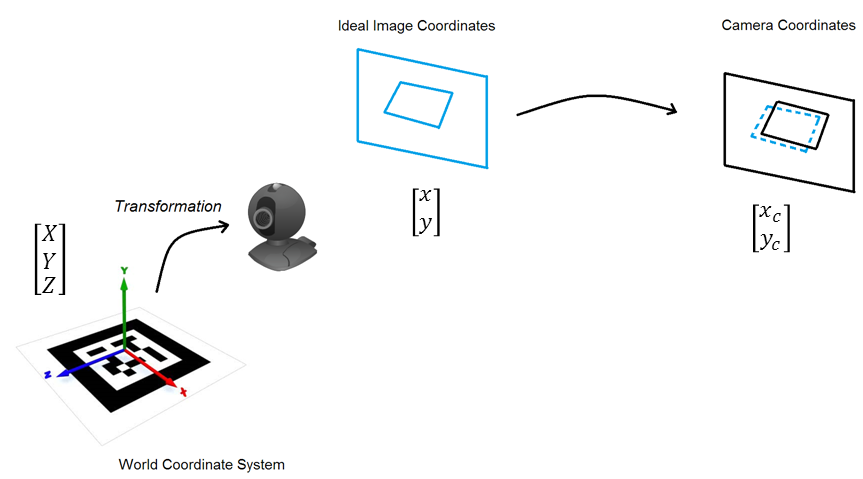
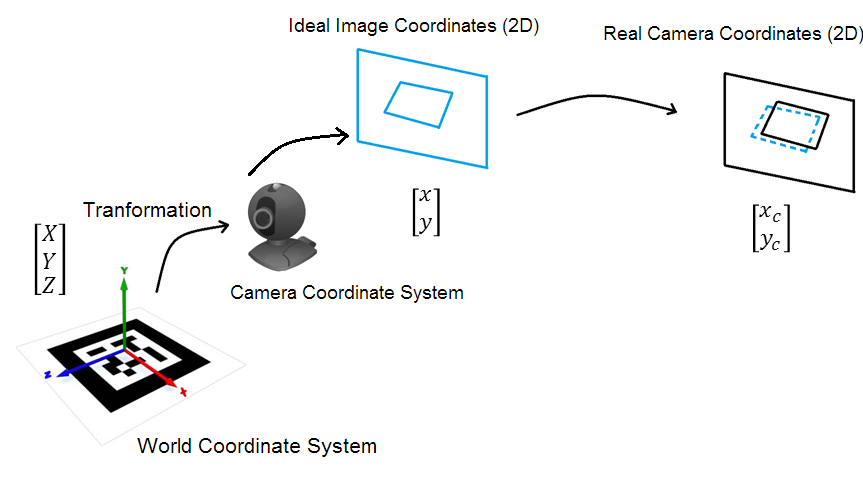
UPDATED PINHOLE

diff --git a/Chapters/Chapter2.tex b/Chapters/Chapter2.tex
@@ -472,8 +472,6 @@ In this chapter, we review prior work in the field of augmented reality from whi
 
 
 \subsection{Το Μοντέλο Κάμερας Pinhole}
-%TO ΜΟΝΤΕΛΟ ΚΑΜΕΡΑΣ ΑΠΟ ΑΛΛΗ ΕΡΓΑΣΙΑ-
-%mcdonald,malik,clarke
 
 
 %gt pinhole?
@@ -491,24 +489,137 @@ In this chapter, we review prior work in the field of augmented reality from whi
 
 %malik
 
-Το σχήμα~\ref{fig:pinhole2} δείχνει το μοντέλο κάμερας pinhole. Ο οπτικός άξονας ορίζεται ως η γραμμή που διαπερνά το κέντρο της εστίασης, που είναι κάθετο στο επίπεδο της εικόνας. Η εικόνας μιας pinhole κάμερας σχηματίζεται στο επίπεδο $z=f$, όπου f είναι το εστιακό μήκος κάμερας(focal length).
-To principal point είναι η τομή ανάμεσα στον οπτικό άξονα(principal axis) και το επίπεδο της εικόνας. 
+Το σχήμα~\ref{fig:pinhole2} δείχνει το μοντέλο κάμερας pinhole. Ο οπτικός άξονας(principal axis) ορίζεται ως η γραμμή που διαπερνά το principal point και είναι κάθετη στο επίπεδο της εικόνας. 
+Η εικόνα μιας pinhole κάμερας σχηματίζεται στο επίπεδο $Z=f$, όπου f είναι το εστιακό μήκος κάμερας(focal length).
+To principal point είναι η τομή ανάμεσα στο principal axis και το επίπεδο της εικόνας. Το optical center είναι το σημείο pinhole, το οποίο παίζει κεντρικό ρόλο στην όλη διαδικασία.
 
-Συμπεραίνοντας ότι έχουμε οποιοδήποτε άλλο σημείο P = [X, Y, Z] στο 3Δ χώρο, και αν θεωρήσουμε το επίπεδο της εικόνας για να ορίσουμε τη δισδιάστατη εικόνα, τότε η δισδιάστατη προβολή του P είναι η τομή ανάμεσα στο επίπεδο της εικόνας και της γραμμής που σχηματίζεται ανάμεσα στο κέντρο της εστίασης και το P, που ορίζεται ως p = [x, y]. 
+Συμπεραίνοντας ότι έχουμε οποιοδήποτε άλλο σημείο P = [X, Y, Z] στο 3Δ χώρο, και αν θεωρήσουμε το επίπεδο της εικόνας για να ορίσουμε τη δισδιάστατη εικόνα, τότε η δισδιάστατη προβολή του P σχηματίζεται στο σημείο τομής ανάμεσα στο επίπεδο της εικόνας και της γραμμής που σχηματίζεται ανάμεσα στο κέντρο της εστίασης και το P, που ορίζεται ως p = [x, y]. 
 
 
-%-----
+
 %ksekinoun mathematics
-Το μοντέλο της κάμερας έχει στόχο να μετασχηματίσει ένα 3D σημείο 
-$X = \begin{bmatrix} X\\ Y\\ Z\\ 1\end{bmatrix}$ του πραγματικού κόσμου σε ένα 2Δ σημείο $X = \begin{bmatrix} X\\ Y\\ 1\end{bmatrix}$
+Το μοντέλο της κάμερας έχει στόχο να μετασχηματίσει ένα οποιδήποτε 3D σημείο $X = \begin{bmatrix} X & Y & Z \end{bmatrix}$ σε ένα 2D σημείο $X = \begin{bmatrix} x & y\end{bmatrix}$. 
 
-Για το μετασχηματισμό αυτό, αρκεί μία απλή προοπτική προβολή. Με άλλα λόγια:
+
+
+
+Για να συμβεί αυτό, αρκεί μία απλή προοπτική προβολή. Χρησιμοποιώντας τη μέθοδο όμοιων τριγώνων στο σχήμα~\ref{pinhole2} παίρνουμε τις παρακάτω σχέσεις:
 
 
 \begin{equation}
+\begin{aligned}
 X=f\frac{X}{Z}\\
 Y=f\frac{Y}{Z}
+\end{aligned}
 \end{equation}
+
+
+Η μεταβλητή $f$ συμβολίζει το εστιακό μήκος, ενώ ε μορφή ομογενών συντεταγμένων, η παραπάνω σχέση γράφεται ως:
+
+\begin{equation}
+\begin{bmatrix}
+x\\y\\1
+\end{bmatrix}
+=
+\begin{bmatrix}
+f & 0 & 0 & 0\\
+0 & f & 0 & 0\\
+0 & 0 & 1 & 0
+\end{bmatrix}
+\begin{bmatrix}
+X\\
+Y\\
+Z\\
+1
+\end{bmatrix}
+\end{equation}
+
+
+
+Ο παραπάνω πίνακας ονομάζεται και camera projection matrix.
+
+
+%ideal != sensor image 2d
+Στην παραπάνω εξίσωση, έχει θεωρηθεί ότι η αρχή των αξόνων του επιπέδου της εικόνας είναι πάνω στο principal point. Ωστόσο κάτι τέτοιο μπορεί να μη συμβαίνει πάντα, οπότε μπορεί να έχουμε την παρακάτω αντιστοίχηση: 
+
+\begin{equation}
+x=f\frac{X}{Z}+c_{x} \! \!  y=f\frac{Y}{Z}+c_{y}
+\end{equation}
+
+όπου $(c_{x},c_{y})^{T}$ είναι οι συντεταγμένες του principal point. Οπότε και πάλι σε ομογενείς συντεταγμένες έχουμε:
+
+\begin{equation}
+\begin{bmatrix}
+x\\y\\1
+\end{bmatrix}
+=
+\begin{bmatrix}
+f & 0 & c_{x} & 0\\
+0 & f & c_{y} & 0\\
+0 & 0 & 1 & 0
+\end{bmatrix}
+\begin{bmatrix}
+X\\
+Y\\
+Z\\
+1
+\end{bmatrix}
+\end{equation}
+
+Ένας τρόπος που χρησιμοποιείται, συνήθως, είναι η αναπαράσταση του μοντέλου της κάμερας ως ένας πίνακας βαθμονόμησης κάμερας (intrinsic camera calibration matrix) K, ή απλά πίνακας κάμερας (camera matrix).  Έχουμε, λοιπόν, τον πίνακα intrinsic camera calibration matrix, Κ, ο οποίος γράφεται ως:
+
+
+\begin{equation}
+K=
+\begin{bmatrix}
+f & 0 & c_{x}\\
+0 & f & c_{y}\\
+0 & 0 & 1
+\end{bmatrix}
+\end{equation}
+
+
+
+Το μοντέλο αυτό, υποθέτει ότι οι συντεταγμένες εικόνας είναι ευκλείδειες συντεταγμένες που έχουν ίδιες κλίμακες και στις 2 κατευθύνσεις των αξόνων, δηλαδή ότι έχουμε τετράγωνα pixels. Αν ωστόσο δε συμβαίνει κάτι τέτοιο, τότε ο μετασχηματισμός από κοσμικές συντεταγμένες σε συντεταγμένες pixel βρίσκεται πολλαπλασιάζοντας την προηγούμενη εξίσωση με το διάνυσμα $\begin{bmatrix}m_{x} & m_{y} & 1\end{bmatrix}$. Οπότε έχουμε τον πίνακα K ο οποίος παίρνει τη μορφή:
+
+\begin{equation}
+K=
+\begin{bmatrix}
+a_{x} & 0 & c_{x}\\
+0 & a_{y} & c_{y}\\
+0 & 0 & 1
+\end{bmatrix}
+\end{equation}
+
+όπου $a_{x}=fm_{x}$ και $a_{y}=fm_{y}$ είναι το εστιακό μήκος κάμερας σε όρους διαστάσεων pixels στις κατευθύνσεις x και y αντίστοιχα. Ωστόσο συνήθως στις περισσότερες κάμερες $m_{x}=m_{y}$.
+
+Μερικές φορές ο πίνακας αυτός παίρνει τη μορφή:
+
+\begin{equation}
+K=
+\begin{bmatrix}
+a_{x} & s & c_{x}\\
+0 & a_{y} & c_{y}\\
+0 & 0 & 1
+\end{bmatrix}
+\end{equation}
+
+για μεγαλύτερη γενικότητα, όπου $s$ είναι μία παράμετρος λοξότητας των στοιχείων pixels, η οποία θεωρεί ότι τα x και y δεν είναι κάθετα. Ωστόσο, με το σημερινό επίπεδο κατασκευής των αισθητήρων, μπορούμε να θεωρήσουμε με ασφάλεια, ότι η παράμετρος αυτή είναι 0, δηλαδή ότι τα pixels του αισθητήρα είναι ορθογώνια.
+
+
+
+
+
+
+
+
+Όπως όμως αναφέρθηκε και προηγουμένως, τα φυσικά χαρακτηριστικά μιας κάμερας ορίζουν πώς θα διαμορφωθεί μία εικόνα στον αισθητήρα εικόνας μιας κάμερας. 
+
+
+
+
+
+
 
 
 
@@ -523,14 +634,14 @@ Y=f\frac{Y}{Z}
 \begin{figure}[H]
     \centering
     \includegraphics[scale=0.5, angle=0]{Files/Figures/pinhole1.png}
-    \caption[Το μοντέλο κεντρικής προβολής (pinhole camera model)]{ Το μοντέλο κεντρικής προβολής (pinhole camera model) \cite{pinhole} .}
+    \caption[Το μοντέλο κεντρικής προβολής στις 3 διαστάσεις (pinhole camera model)]{ Το μοντέλο κεντρικής προβολής (pinhole camera model) \cite{pinhole} .}
     \label{fig:pinhole1}
 \end{figure}
 
 \begin{figure}[H]
     \centering
     \includegraphics[scale=0.5, angle=0]{Files/Figures/pinhole2.png}
-    \caption[Πλάγια όψη του μοντέλου κεντρικής προβολής (pinhole camera model)]{ Πλάγια όψη του μοντέλου κεντρικής προβολής (pinhole camera model) \cite{pinhole} .}
+    \caption[Πλάγια όψη του μοντέλου κεντρικής προβολής 2D (pinhole camera model)]{ Πλάγια όψη του μοντέλου κεντρικής προβολής (pinhole camera model) \cite{pinhole} .}
     \label{fig:pinhole2}
 \end{figure}
 
@@ -546,51 +657,14 @@ Y=f\frac{Y}{Z}
 
 
 
-%siltanen ta leei poli apla kai katanoita-exei lathi
 
 
 
-%allo pinhole allo pragmatikes kameres!!!!!!
--camera calibration matrix and optical distortions
-Τα φυσικά χαρακτηριστικά μιας κάμερας ορίζουν πώς θα διαμορφωθεί μία εικόνα στον αισθητήρα εικόνας μιας κάμερας. 
-
-Ενώ στο μοντέλο pinhole, μόνο το εστιακό μήκος της κάμερας επηρεάζει τη διάταξη της εικόνας, στις πραγματικές κάμερες, ο αισθητήρας μπορεί να είναι ασύμμετρος, η αναλογία διαστάσεων pixel μπορεί να είναι ανόμοια και το κέντρο του αισθητήρα εικόνας $(c_{x},c_{y}$ μπορεί να διαφέρει σε απόσταση από τον οπτικό άξονα του συστήματος φακού.
-
-Ένας τρόπος που χρησιμοποιείται, συνήθως, είναι η αναπαράσταση του μοντέλου της κάμερας ως ένας πίνακας βαθμονόμησης κάμερας (intrinsic camera calibration matrix) K, ή απλά πίνακας κάμερας (camera matrix). Πρόκειται για μία αντιστοίχηση ανάμεσα στις συντεταγμένες της ιδανικής 2D εικόνας και τις συντεταγμένες της εικόνας που απεικονίζεται στον αισθητήρα της κάμερας (observed pixel coordinates), $x_{pix}=Κx_{c}$. Επομένως, ο πίνακας βαθμονόμησης (calibration matrix) εξαρτάται μόνο από τις ιδιότητες της κάμερας.
-
-
-\begin{equation}
-\begin{bmatrix}
-x_{pix} \\ y_{pix} \\ 1
-\end{bmatrix}
-=
-\begin{bmatrix}
-f_{x} & s & c_{x} & 0\\
-0 & f_{y} & c_{y} & 0\\
-0 & 0 & 1 & 0
-\end{bmatrix}
-\begin{bmatrix}
-x_{c}\\
-y_{c}\\
-z_{c}
-\end{bmatrix}
-\end{equation} .
+%------------DISTORTIONS---------------------------------------
 
 Επιπλέον, μία πραγματική κάμερα μπορεί να παράγει συστηματικά γεωμετρικά σφάλματα, που ονομάζονται παραμορφώσεις, λόγω ατελειών του φακού. 
 Η παραμόρφωση αυτή συμβαίνει στο φακό της κάμερας. 
 Επομένως, θεωρητικά, η παραμόρφωση πρέπει να ληφθεί υπόψη πριν γίνει ο μετασχηματισμός των ιδανικών συντεταγμένων σε συντεταγμένες κάμερας. 
-Ωστόσο στις περισσότερες σύγχρονες κάμερες, τα pixels είναι τετράγωνα και οι στήλες και σειρές είναι ευθείες. Αυτό σημαίνει ότι στον πίνακα της κάμερας $s=0$, και $f_{x}=f_{y}$.
-
-\begin{equation}
-K=
-\begin{bmatrix}
-f & 0 & c_{x} & 0\\
-0 & f & c_{y} & 0\\
-0 & 0 & 1 & 0
-\end{bmatrix}
-\end{equation} .
-
-
 %paramorfosi
 Σε αυτή την περίπτωση, η παραμόρφωση μπορεί να μοντελοποιηθεί μετά μετά τον εσωτερικό μετασχηματισμό της κάμερας (camera’s intrinsic transformation). Ο πίνακας κάμερας μετατρέπει τις ιδανικές συντεταγμένες εικόνας σε συντεταγμένες κάμερας και έπειτα, η συνάρτηση παραμόρφωσης μετατρέπει τις συντεταγμένες κάμερας σε συντεταγμένες pixel.
 
@@ -1214,8 +1288,7 @@ y=-(y'-o_{y})s_{y}
 -Extrinsics-
 
 %siltanen
-Οι εξωτερικές παράμετροι ορίζουν τη θέση και το προσανατολισμό της κάμερας ( ή ακριβέστερα του συστήματος συντεταγμένων της κάμερας σε σχέση με τις κοσμικές συντεταγμένες της σκηνής). Αυτός ο μετασχηματισμός M αποτελείται από μία συνιστώσα περιστροφής R και μία συνιστώσα μετατόπισης t, οι οποίες περιγράφονται σε κοσμικές συντεταγμένες (world coordinates) παρακάτω:
-
+Οι εξωτερικές παράμετροι(extrinsics) ορίζουν τη θέση και το προσανατολισμό της κάμερας ( ή ακριβέστερα του συστήματος συντεταγμένων της κάμερας σε σχέση με τις κοσμικές συντεταγμένες της σκηνής). 
 
 
 Ο μετασχηματισμός M ανάμεσα σε μία κάμερα και έναν marker είναι
@@ -1225,9 +1298,9 @@ y=-(y'-o_{y})s_{y}
 \end{equation}
 
 
-όπου $\textbf{Χ}$ είναι ένα σημείο σε συντεταγμένες κόσμου, $\textbf{x}$ είναι η προβολή του σημείου σε συντεταγμένες ιδανικής εικόνας και M είναι ο μετασχηματισμός ανάμεσα σε κάμερα και marker, ή αλλιώς extrinsic camera matrix ή πίνακας πόζας. R είναι ένας πίνακας περιστροφής  και t ένα.
+όπου $\textbf{Χ}$ είναι ένα σημείο σε συντεταγμένες κόσμου, $\textbf{x}$ είναι η προβολή του σημείου σε συντεταγμένες ιδανικής εικόνας και M είναι ο μετασχηματισμός ανάμεσα σε κάμερα και marker, ο οποίος αποτελείται από μία συνιστώσα περιστροφής R που περιγράφει την περιστροφή της κάμερας και μία συνιστώσα μετατόπισης t, που περιγράφει τη θέση της κάμερας οι οποίες περιγράφονται σε κοσμικές συντεταγμένες (world coordinates) παρακάτω:
 
-Ο μετασχηματισμός M αποτελείται από ένα  3Δ διάνυσμα μετατόπισης που περιγράφει τη θέση του κέντρου της κάμερας και από ένα πίνακα 3x3 R περιστροφής που περιγράφει τον προσανατολισμό της κάμερας. Ο μετασχηματισμός μπορεί να οριστεί σε μορφή πίνακα ως 
+
 
 
 \begin{equation}
@@ -1263,7 +1336,7 @@ Z\\
 
 
 
-
+-SUNDUASMOS EXTRINSIC-INTRINSIC APO CAMERA PARAMETERS PDF
 
 
 
@@ -1277,11 +1350,7 @@ Z\\
 %clarke
 Η εύρεση των εσωτερικών παραμέτρων της κάμερας είναι γνωστή ως βαθμονόμηση κάμερας ή camera calibration και στόχο έχει τον προσδιορισμό των στοιχείων του εσωτερικού προσανατολισμού της κάμερας από δισδιάστατες εικόνες. Αυτές περιλαμβάνουν την εστιακή απόσταση, το "principal point" και την αναλογία των διαστάσεων (aspect ratio). 
 
-Η συνολική απόδοση μιας εφαρμογής επαυξημένης πραγματικότητας, εξαρτάται άμεσα από την ακρίβεια της βαθμονόμησης της κάμερας. 
-
-
-%%tzionas
- Παρά το γεγονός ότι το αντικείμενο παρουσιάζει ιδιαίτερο ερευνητικό ενδιαφέρον, δεν είναι στους στόχους της εργασίας η περαιτέρω ανάλυσή του. Στα πλαίσια της διπλωματικής εργασίας απαιτείται η χρήση μιας απλής μεθόδου με αξιοποίηση συνηθισμένου εξοπλισμού για την βαθμονόμηση. 
+Η συνολική απόδοση μιας εφαρμογής επαυξημένης πραγματικότητας, εξαρτάται άμεσα από την ακρίβεια της βαθμονόμησης της κάμερας. Παρά το γεγονός ότι το αντικείμενο παρουσιάζει ιδιαίτερο ερευνητικό ενδιαφέρον, δεν είναι στους στόχους της εργασίας η περαιτέρω ανάλυσή του. Στα πλαίσια της διπλωματικής εργασίας απαιτείται η χρήση μιας απλής μεθόδου με αξιοποίηση συνηθισμένου εξοπλισμού για την βαθμονόμηση. 
 
 
 %σκακιερα
